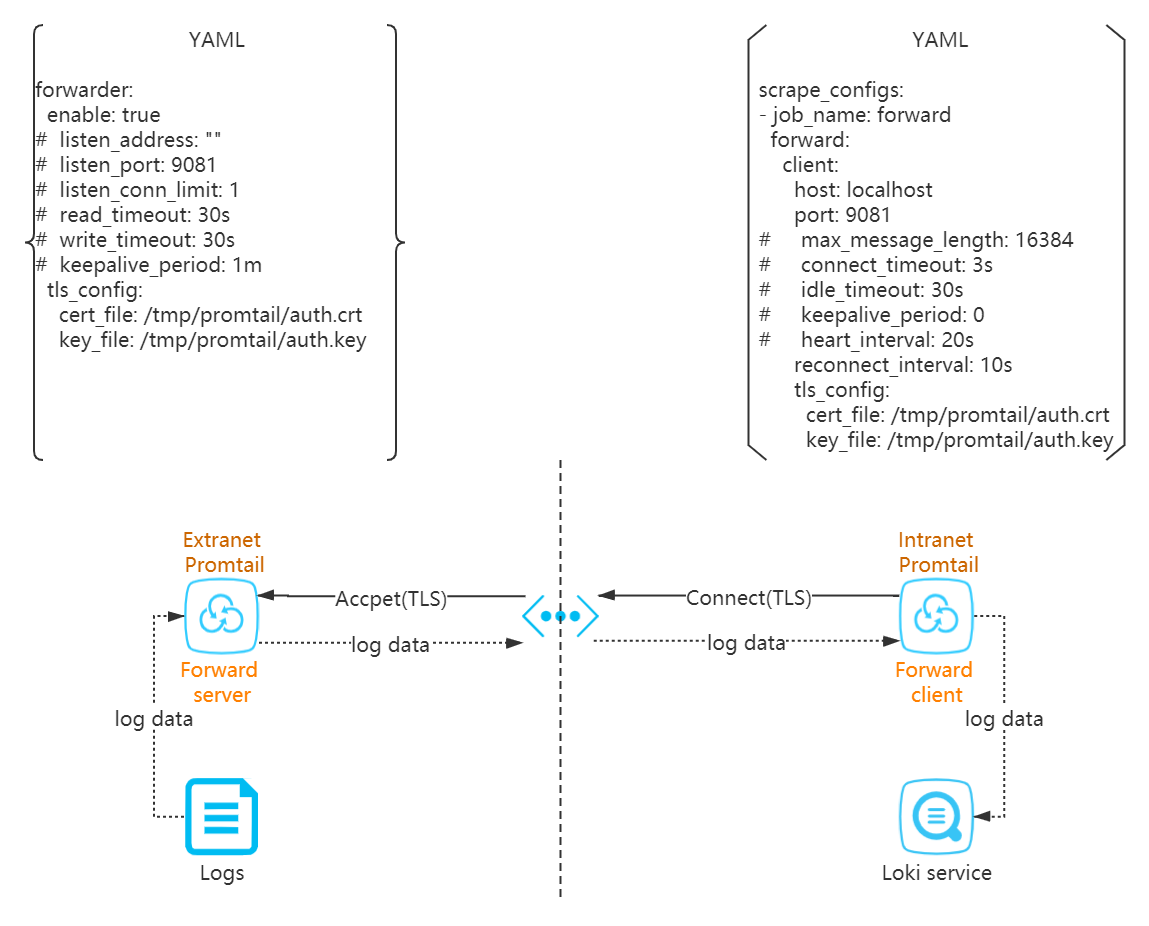
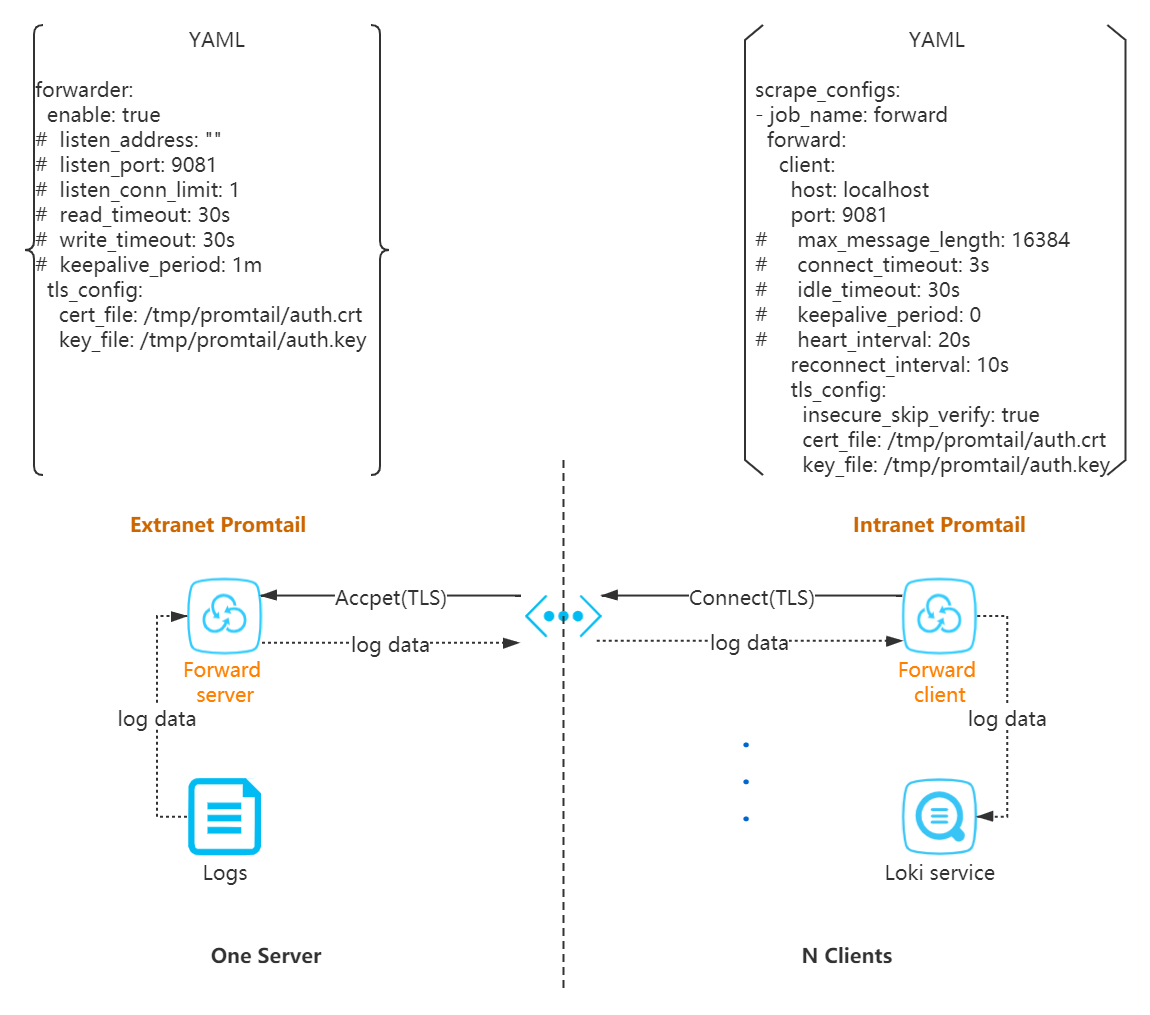
Update forward promtail diagram of png.

diff --git a/README.md b/README.md
@@ -4,7 +4,7 @@
 
 The `reserve forward promtail` is the agent based on [loki promtail](https://github.com/grafana/loki.git) with reserve forward server and client, responsible for gathering logs and sending them to Loki.
 
-## Diagram
+## Diagram (1 x N)
 
 <p align="center"><img src="docs/sources/forward-promtail.png" alt="Promtail Logo"></p>
 
